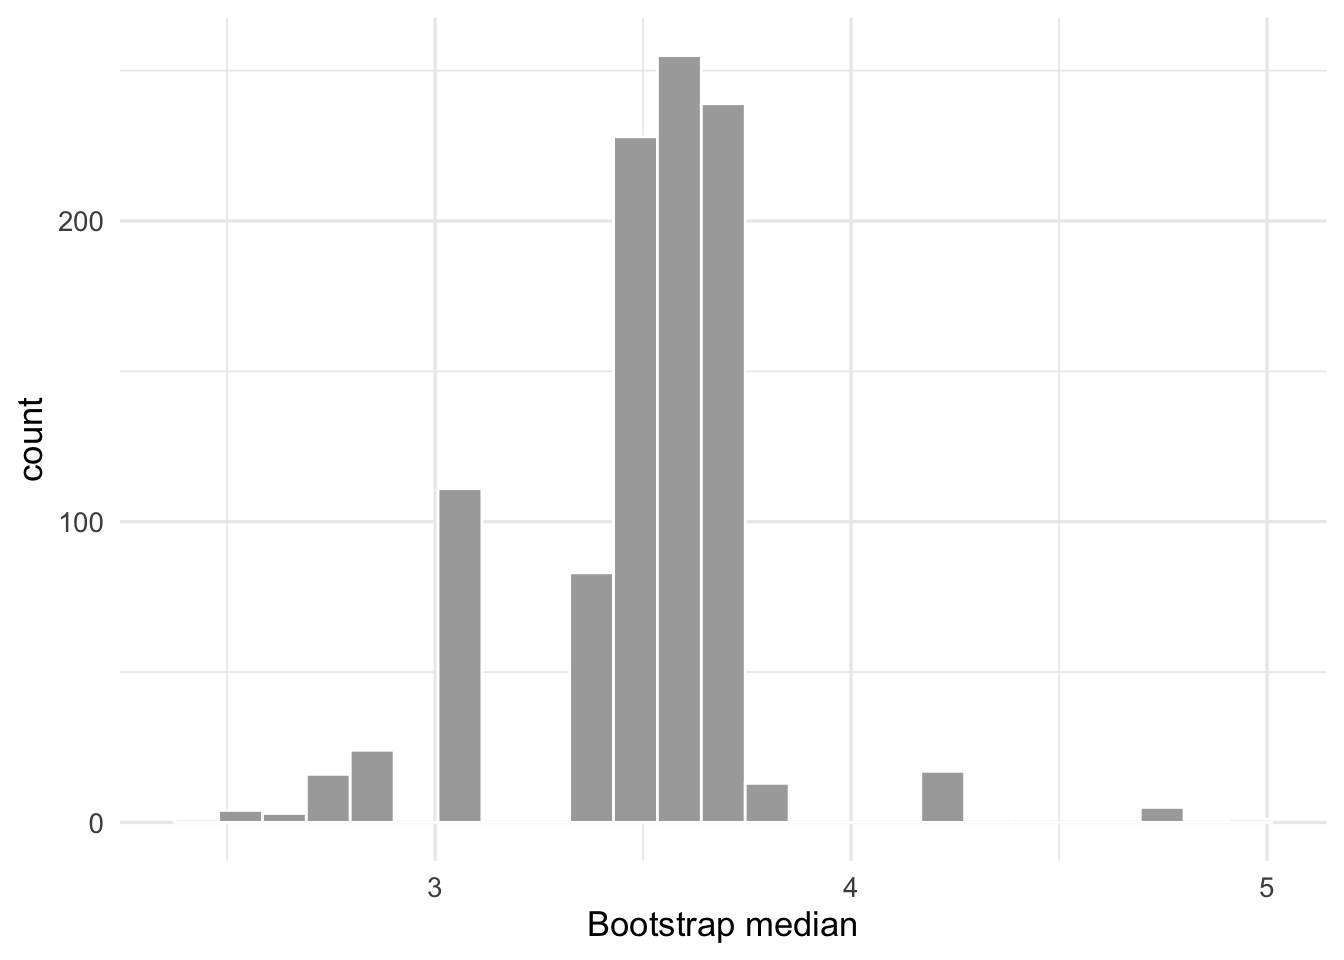
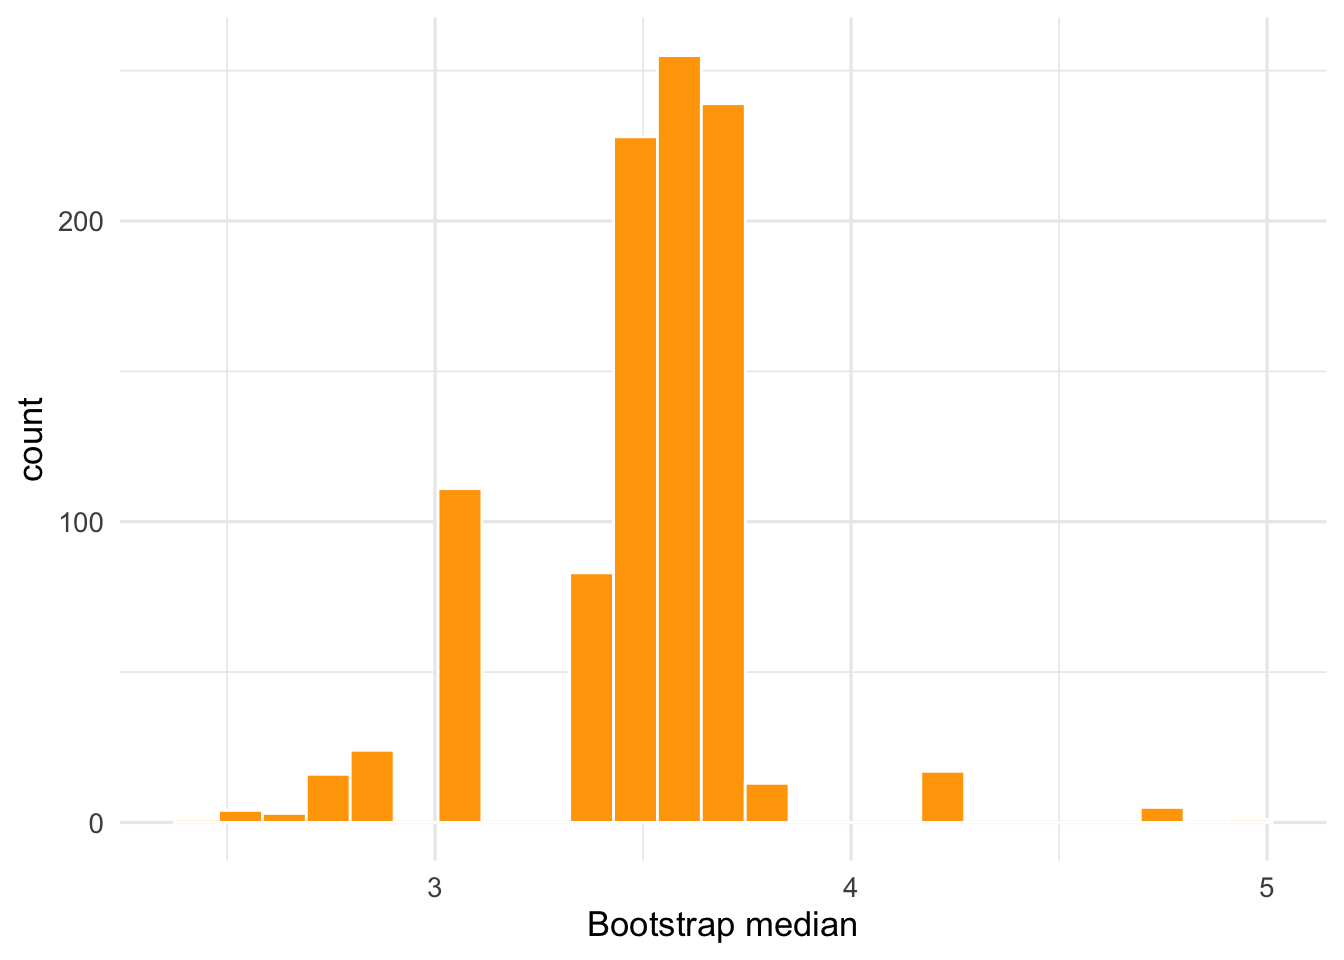
update lesson05

diff --git a/_site/lesson05/index.html b/_site/lesson05/index.html
@@ -328,7 +328,7 @@ div.csl-indent {
 <span id="cb5-2"><a href="#cb5-2" aria-hidden="true" tabindex="-1"></a></span>
 <span id="cb5-3"><a href="#cb5-3" aria-hidden="true" tabindex="-1"></a>ts_meds_df <span class="sc">%&gt;%</span></span>
 <span id="cb5-4"><a href="#cb5-4" aria-hidden="true" tabindex="-1"></a>  <span class="fu">ggplot</span>(<span class="fu">aes</span>(<span class="at">x=</span>ts_meds)) <span class="sc">+</span> </span>
-<span id="cb5-5"><a href="#cb5-5" aria-hidden="true" tabindex="-1"></a>  <span class="fu">geom_histogram</span>(<span class="at">color=</span><span class="st">"white"</span>,<span class="at">fill=</span><span class="st">"darkgrey"</span>,<span class="at">bins=</span><span class="dv">25</span>) <span class="sc">+</span> </span>
+<span id="cb5-5"><a href="#cb5-5" aria-hidden="true" tabindex="-1"></a>  <span class="fu">geom_histogram</span>(<span class="at">color=</span><span class="st">"white"</span>,<span class="at">fill=</span><span class="st">"orange"</span>,<span class="at">bins=</span><span class="dv">25</span>) <span class="sc">+</span> </span>
 <span id="cb5-6"><a href="#cb5-6" aria-hidden="true" tabindex="-1"></a>  <span class="fu">labs</span>(<span class="at">x =</span> <span class="st">"Bootstrap median"</span>)</span></code><button title="Copy to Clipboard" class="code-copy-button"><i class="bi"></i></button></pre></div>
 </details>
 <div class="cell-output-display">
